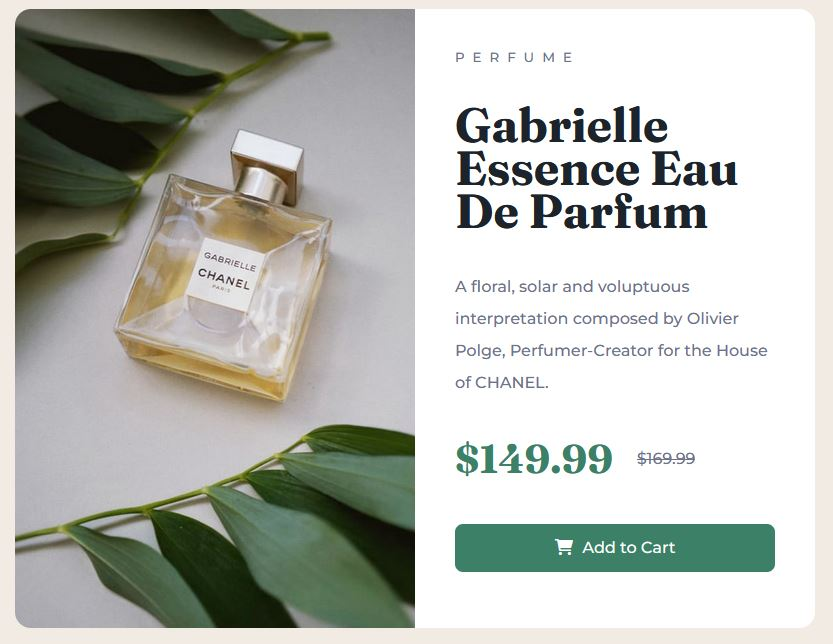
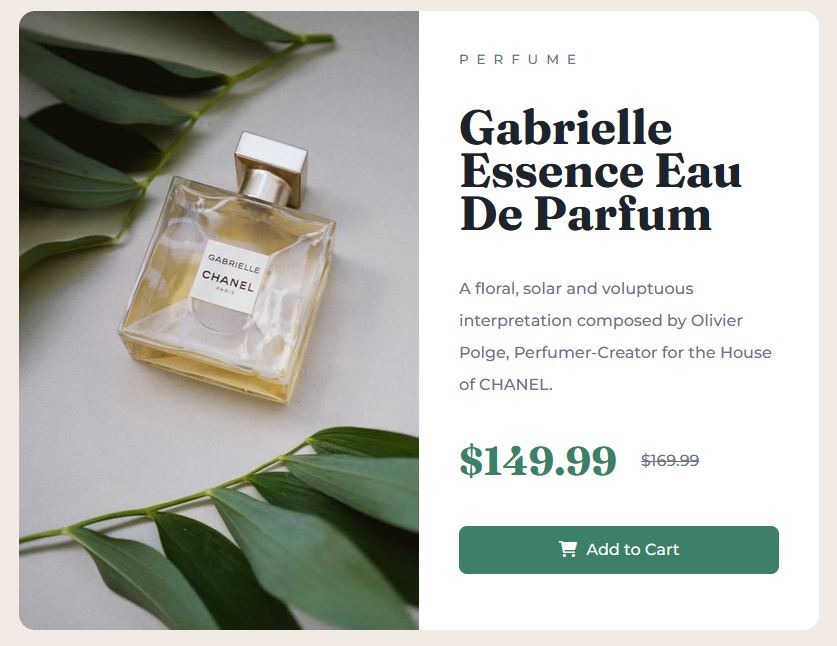
fix screenshot issue

diff --git a/README.md b/README.md
@@ -9,7 +9,7 @@ This is a solution to the [Product preview card component challenge on Frontend 
   - [Links](#links)
 - [My process](#my-process)
   - [Built with](#built-with)
-  - [What I learned](#what-i-learned)
+  - [What I learned](#what-i-learned/practiced)
   - [Continued development](#continued-development)
   - [Useful resources](#useful-resources)
 - [Author](#author)
@@ -26,7 +26,7 @@ Users should be able to:
 
 
 ### Screenshot
-![](./images/preview.jpg)
+![](./images/preview.JPG)
 
 
 
